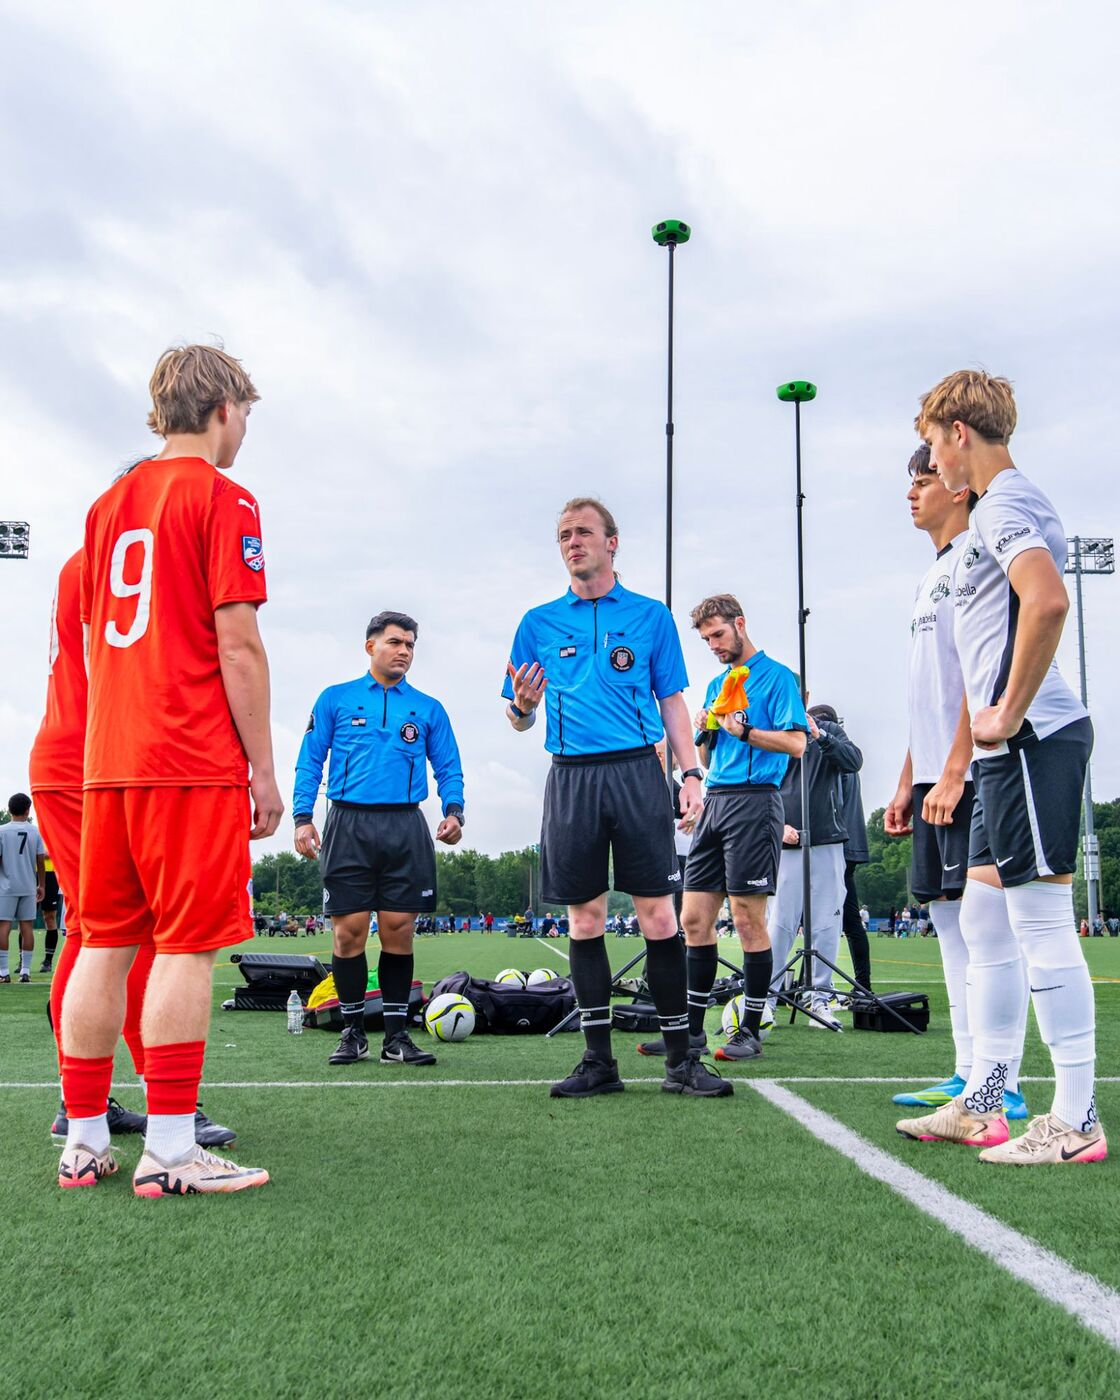
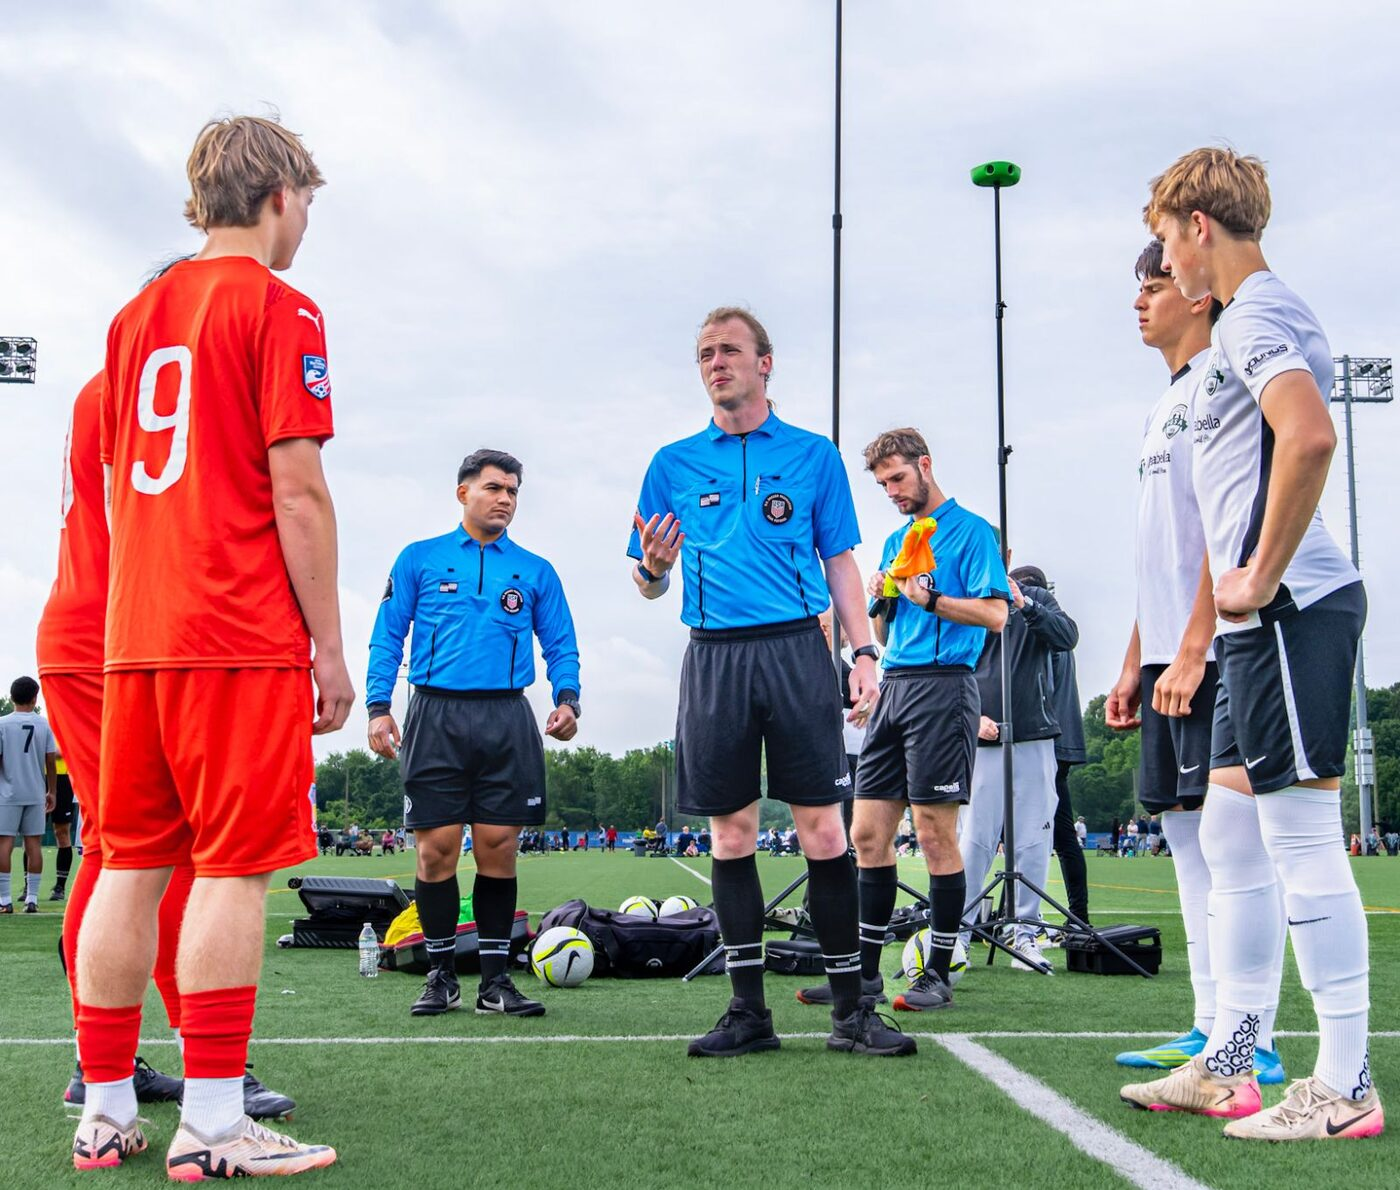
Cover hero: crop the coin-toss photo tight on the referees
The coin-toss is a portrait shot with the officials mid-frame, so the hero
crop kept landing on the sky and the referees fell into the dark title zone.
Replace it with a people-focused crop (sky and foreground grass removed) so
the referees fill the frame on both phone and desktop, and nudge its focal to
40%. Verified at the real phone (390x360) and desktop (900x440) hero sizes.

Claude-Session: https://claude.ai/code/session_018u9gfGCRwBF7xDumhssY86

diff --git a/public/app.js b/public/app.js
@@ -1833,7 +1833,7 @@ function renderModuleLesson(pane, course, lesson, lp) {
       hero.style.backgroundImage = 'url("' + heroSrc + '")';
       // Per-photo vertical focal point so the referees' heads sit in the visible
       // band above the overlaid title. Falls back to a sensible default.
-      const HERO_FOCAL = { 'ref-crew': 'center 18%', 'ref-coin-toss': 'center 36%' };
+      const HERO_FOCAL = { 'ref-crew': 'center 18%', 'ref-coin-toss': 'center 40%' };
       hero.style.backgroundPosition = HERO_FOCAL[heroBlk.graphic] || 'center 30%';
       hero.style.setProperty('--gmr-brand', bnrRed || '#d0342c');
       // Title + meta sit over the photo; the opening narration renders as a
